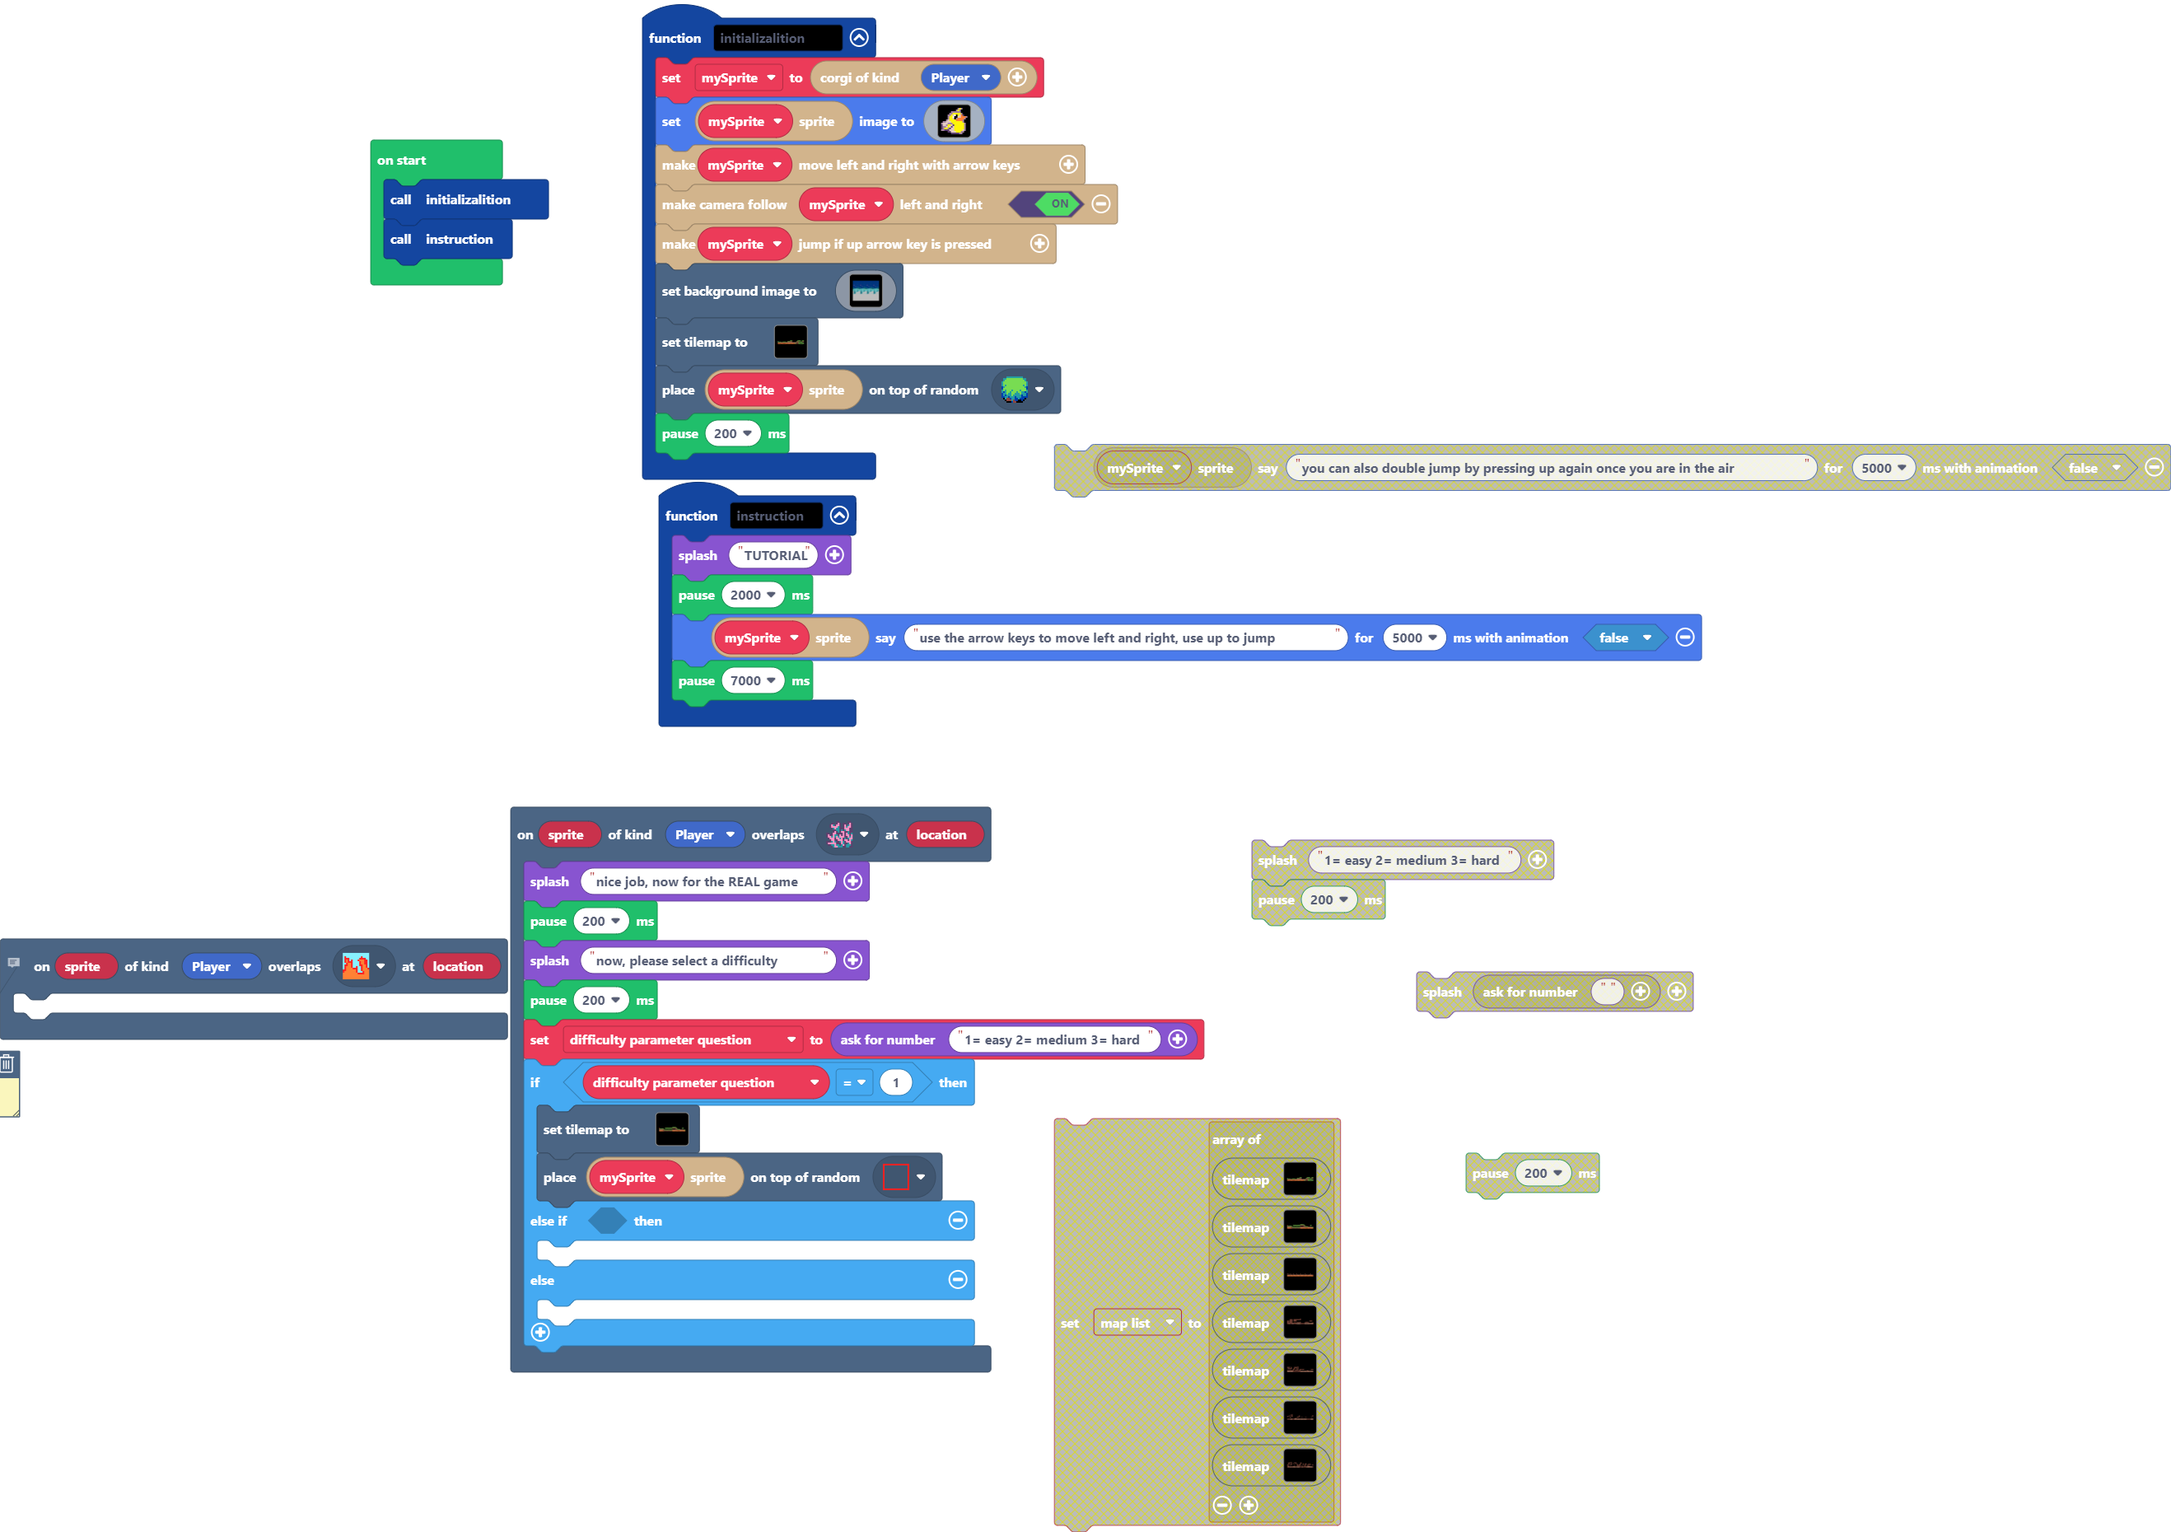
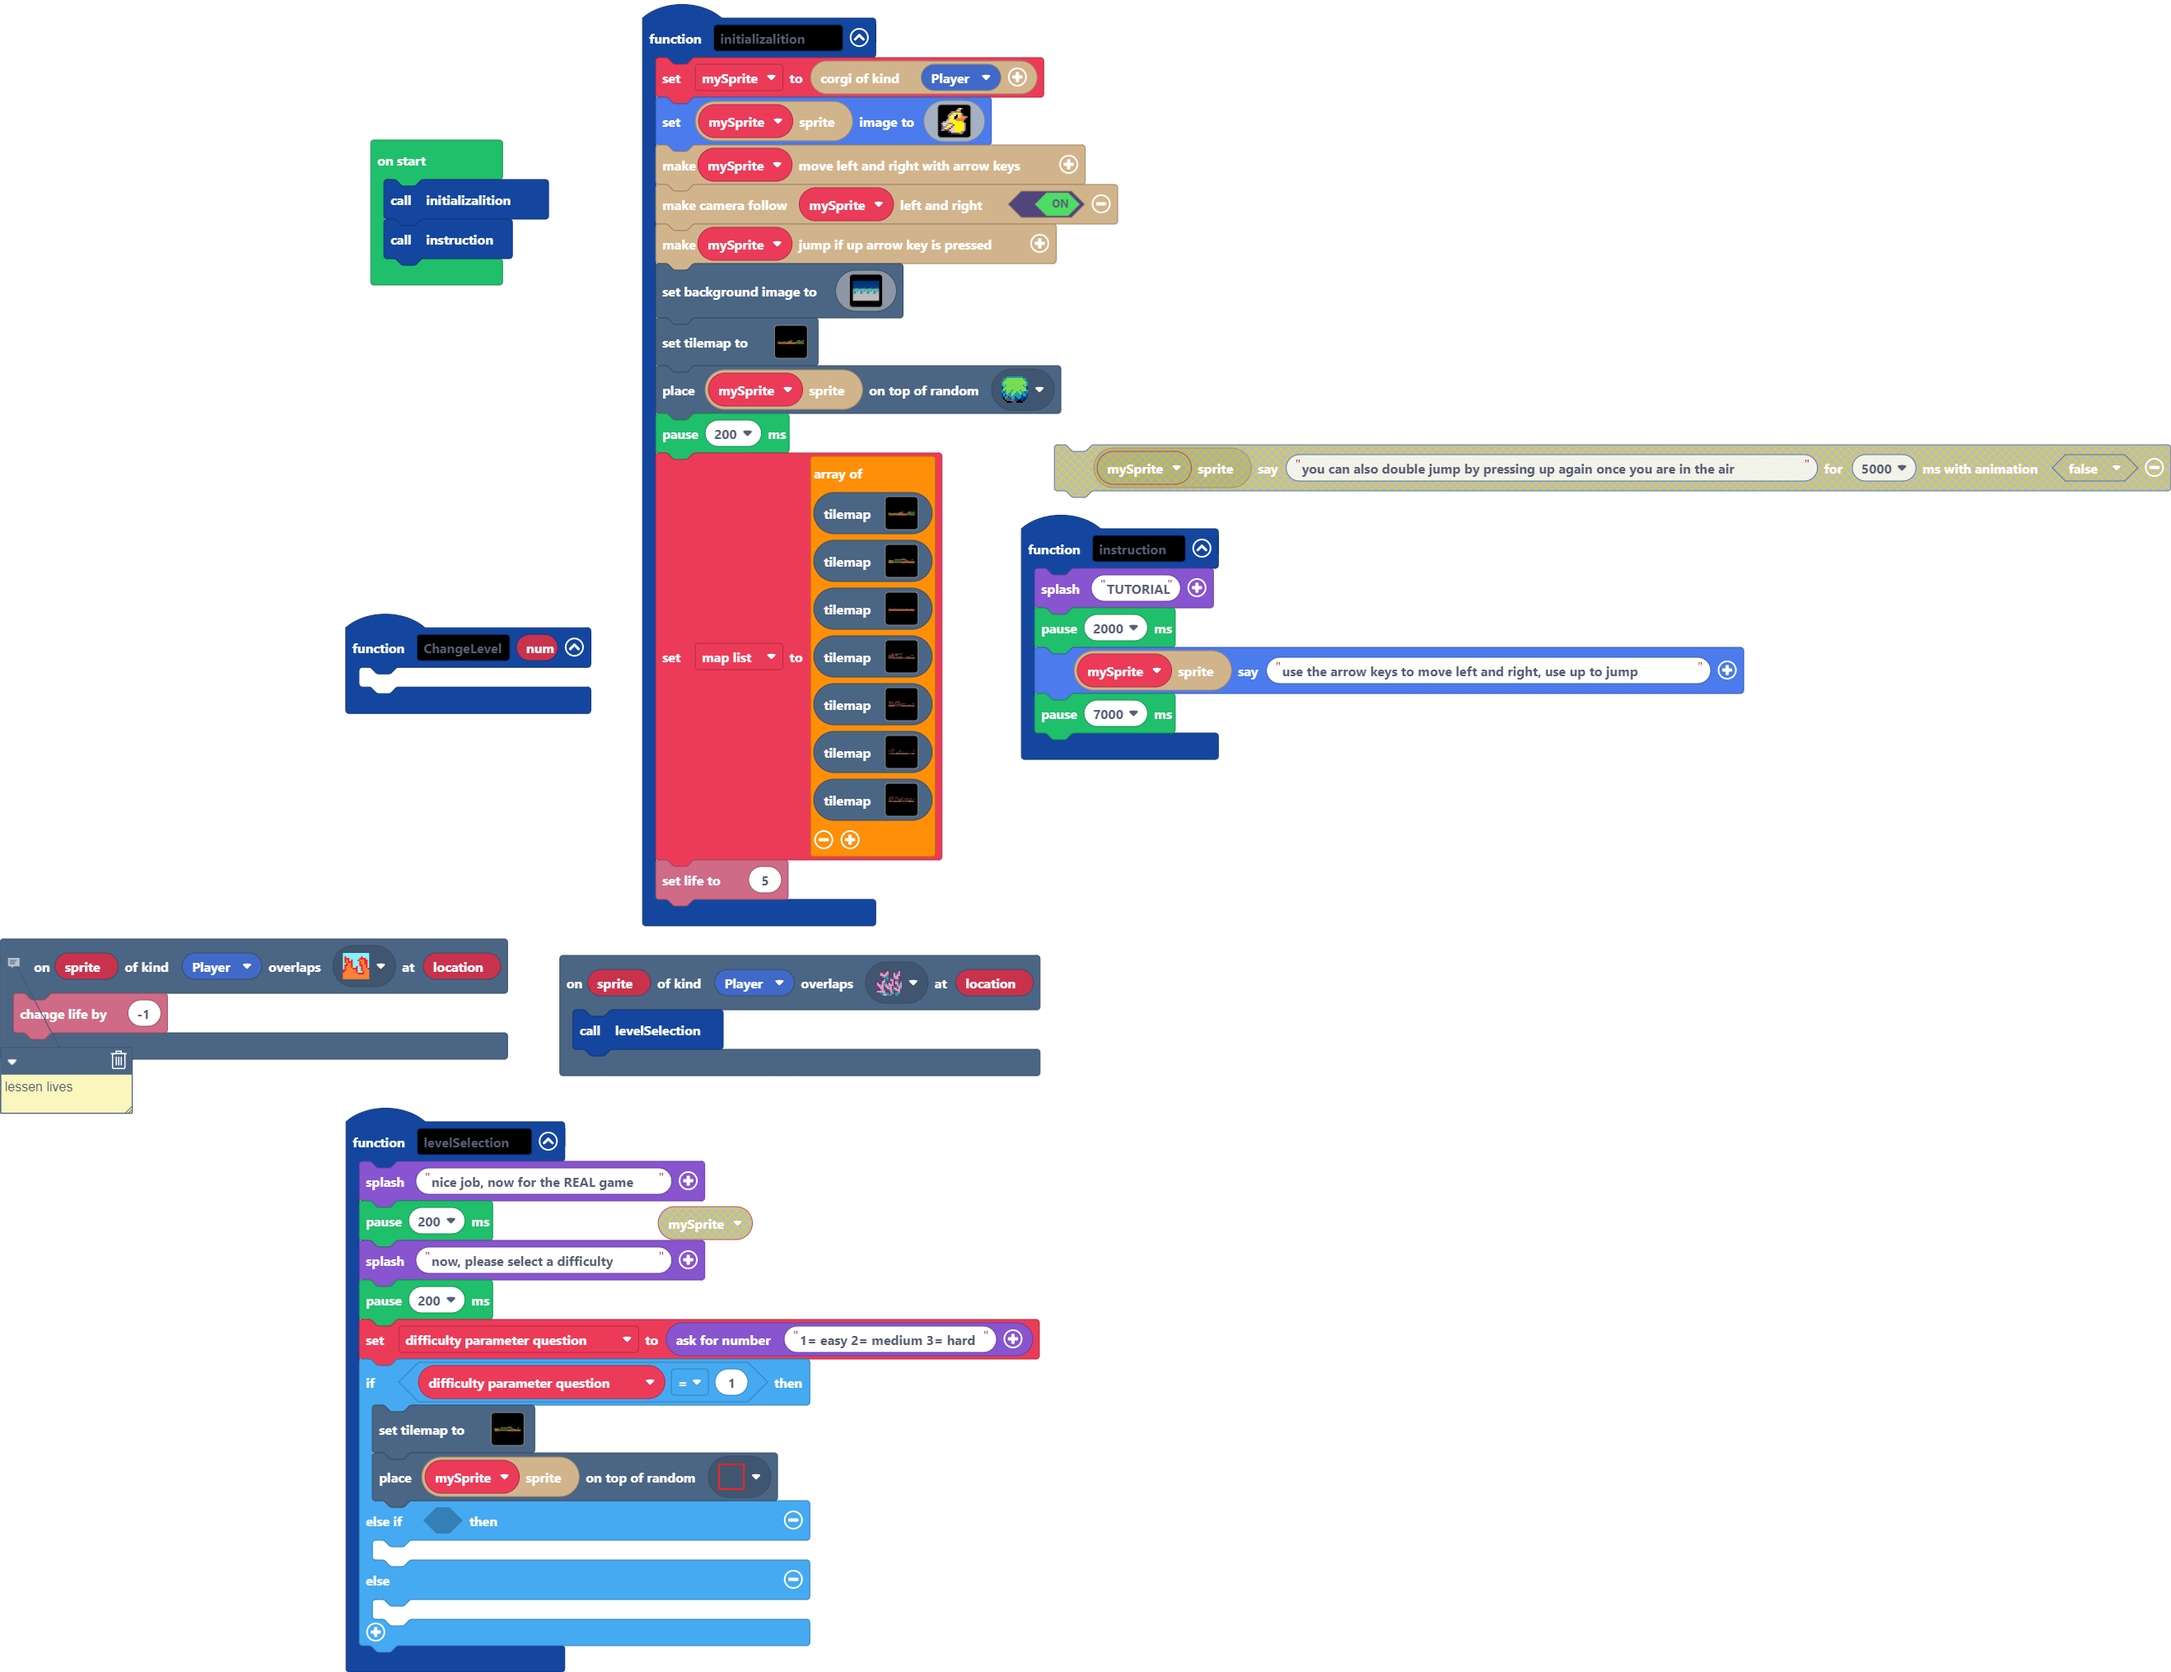
Update pxt.json, main.blocks, main.ts

diff --git a/main.ts b/main.ts
@@ -146,13 +146,18 @@ function initializalition () {
     tiles.setTilemap(tilemap`level1`)
     tiles.placeOnRandomTile(mySprite.sprite, sprites.builtin.forestTiles0)
     pause(200)
+    map_list = [
+    tilemap`level1`,
+    tilemap`level2`,
+    tilemap`level8`,
+    tilemap`level9`,
+    tilemap`level7`,
+    tilemap`level4`,
+    tilemap`level10`
+    ]
+    info.setLife(5)
 }
-// lessen lives
-// 
-scene.onOverlapTile(SpriteKind.Player, assets.tile`myTile3`, function (sprite, location) {
-	
-})
-scene.onOverlapTile(SpriteKind.Player, sprites.builtin.coral1, function (sprite, location) {
+function levelSelection () {
     game.splash("nice job, now for the REAL game")
     pause(200)
     game.splash("now, please select a difficulty")
@@ -166,14 +171,26 @@ scene.onOverlapTile(SpriteKind.Player, sprites.builtin.coral1, function (sprite,
     } else {
     	
     }
+}
+function ChangeLevel (num: number) {
+	
+}
+// lessen lives
+// 
+scene.onOverlapTile(SpriteKind.Player, assets.tile`myTile3`, function (sprite, location) {
+    info.changeLifeBy(-1)
+})
+scene.onOverlapTile(SpriteKind.Player, sprites.builtin.coral1, function (sprite, location) {
+    levelSelection()
 })
 function instruction () {
     game.splash("TUTORIAL")
     pause(2000)
-    mySprite.sprite.sayText("use the arrow keys to move left and right, use up to jump", 5000, false)
+    mySprite.sprite.sayText("use the arrow keys to move left and right, use up to jump")
     pause(7000)
 }
 let difficulty_parameter_question = 0
+let map_list: tiles.TileMapData[] = []
 let mySprite: Corgio = null
 initializalition()
 instruction()
